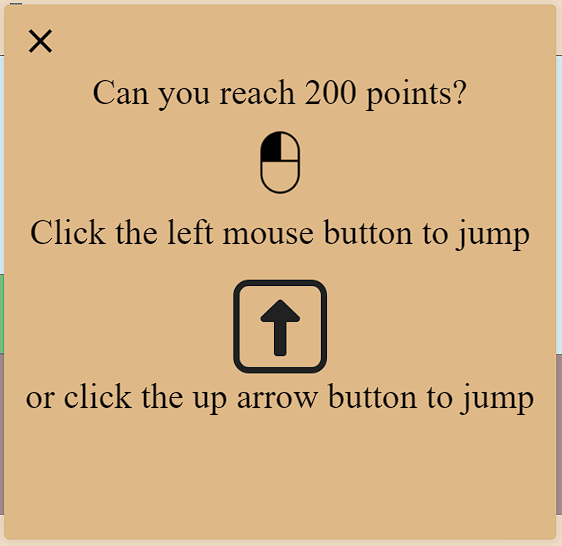
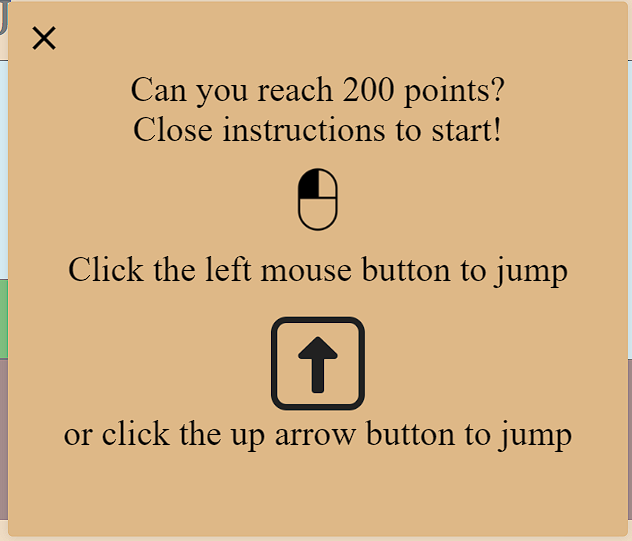
Add victory modal feature and renew jshint section in readme

Changed region(s): [[0.0, 0.0, 1.0, 1.0]]

diff --git a/index.html b/index.html
@@ -55,6 +55,7 @@
                     <span id="closeModal">&times;</span>
                     <div id="left-mouse-button">
                         <p>Can you reach 200 points?</p>
+                        <p>Close instructions to start!</p>
                         <img src="assets/images/left-mouse-button.webp" alt="Left mouse button">
                         <p>Click the left mouse button to jump</p>
                     </div>

diff --git a/README.md b/README.md
@@ -9,7 +9,7 @@ Deployed link to the website: https://tekali7.github.io/JumpJourney/
 # Purpose of this project
 
 A website here to provide entertainment to the user in the form of a fast paced jumping game.
-The user controls a character which can be controlled using either the left mouse button or the up arrow key.
+The user controls a character which can be controlled by using either the left mouse button or the up arrow key. The ultimate goal is to reach a score of 200 to complete the journey and win the game.
 
 # Table of contents:
 
@@ -26,6 +26,7 @@ The user controls a character which can be controlled using either the left mous
     * [Score Counter](https://github.com/Tekali7/JumpJourney#score-counter)
     * [Game over SweetAlert](https://github.com/Tekali7/JumpJourney#game-over-sweetalert)
     * [Instructions Modal](https://github.com/Tekali7/JumpJourney#instructions-modal)
+    * [Victory Modal](https://github.com/Tekali7/JumpJourney#victory-modal)
     * [Collision Detection](https://github.com/Tekali7/JumpJourney#collision-detection)
     * [Future implementations](https://github.com/Tekali7/JumpJourney#future-implementations)
 
@@ -84,7 +85,7 @@ The game is targeted to a broad audience. Particularly those who enjoy casual an
 
 # Features
 
-The website consists of one page with numerous features which offer the user a pleasant website experience.
+The website consists of one page with numerous features which offer the user a pleasant website/gaming experience.
 
 ## Header/Navigation
 
@@ -93,12 +94,12 @@ The title of the game is a link that leads back to the start of the page. When c
 
 ## User-Friendly Interface
 
-The interface of the website is very user-friendly and is designed to provide easy navigation and gameplay. For example: The user can click anywhere on the screen to let the player jump.
+The interface of the website is very user-friendly and is designed to provide easy navigation and gameplay. For example: The user can click inside the game area to let the player jump.
 ![User-Interface](assets/readme-imgs/new-user-interface.PNG)
 
 ## Sound effects
 
-The game provides the player with acoustic feedback when jumping or colliding with the obstacle. This additional feedback increases the experience of the user on the website, as it increases the immersion of the game.
+The game provides the player with acoustic feedback when jumping or colliding with the obstacle. There is also a rewarding sound upon completion of the game. This additional feedback increases the experience of the user on the website, as it increases the immersion of the game.
 ![Sounds](assets/readme-imgs/sounds.PNG)
 
 ## Score Counter
@@ -116,6 +117,11 @@ The game over SweetAlert function tells the user that the gaming session has end
 
 The instructions modal informs the user about the possible ways to control the player, while holding the game on pause. It displays two images with short descriptions underneath each image. The first image displays a left mouse button and the second image displays a arrow up button.
 ![Instructions Modal](assets/readme-imgs/new-instructions-modal.PNG)
+
+## Victory Modal
+
+The victory modal congratulates the player on successfully completing the journey. It informs the player of their achievement with an uplifting message and an icon.The overall design and content of the modal aim to create a sense of accomplishment and satisfaction for the player's successful completion of the game.
+![Victory Modal](assets/readme-imgs/victory-modal.PNG)
 
 ## Collision Detection
 
@@ -204,13 +210,13 @@ This warning is due to the import of the Google fonts.
 
 - Validator result for script.js
 ![Validator result script](assets/readme-imgs/js-validator.PNG)
-JSHint outputs 18 warnings which are considered aceptable. They are:
+JSHint outputs 29 warnings which are considered aceptable. They are:
 1. 	'let' is available in ES6 (use 'esversion: 6') or Mozilla JS extensions (use moz).
 
-and
+2.  'const' is available in ES6 (use 'esversion: 6') or Mozilla JS extensions (use moz).
 <br>
 
-2.  'arrow function syntax (=>)' is only available in ES6 (use 'esversion: 6').
+3.  'arrow function syntax (=>)' is only available in ES6 (use 'esversion: 6').
 
 ## Lighthouse Testing
 
